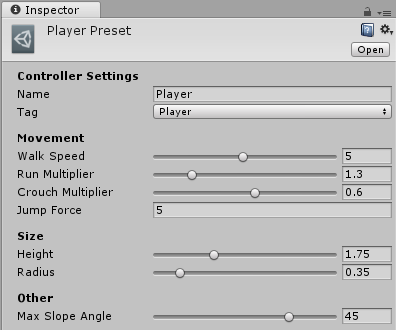
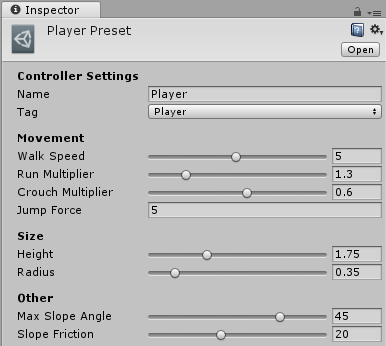
Updated images, example scene and comments

diff --git a/FPController/Assets/FPController/Script/Controller/FirstPersonController.cs b/FPController/Assets/FPController/Script/Controller/FirstPersonController.cs
@@ -74,12 +74,12 @@ namespace FPController
         private FirstPersonPreset m_settings;
 
         /// <summary>
-        /// Is charachter currently running.
+        /// Is the controller currently running.
         /// </summary>
         private bool m_running = false;
 
         /// <summary>
-        /// Is charachter currently crouching.
+        /// Is the controller currently crouching.
         /// </summary>
         private bool m_crouching = false;
 
@@ -212,7 +212,7 @@ namespace FPController
          */
 
         /// <summary>
-        /// Move Controllers Rigidbody component with given horizontal and vertical input.
+        /// Moves the rigidbody component with given horizontal and vertical input.
         /// </summary>
         /// <param name="_horizontal">Horizontal Input.</param>
         /// <param name="_vertical">Vertical Input.</param>
@@ -222,7 +222,7 @@ namespace FPController
         }
 
         /// <summary>
-        /// Rotate Charachter with given horizontal and vertical input.
+        /// Rotates the controller with given horizontal and vertical input.
         /// </summary>
         /// <param name="_horizontal">Horizontal Input.</param>
         /// <param name="_vertical">Vertical Input.</param>
@@ -232,7 +232,7 @@ namespace FPController
         }
 
         /// <summary>
-        /// Makes charachter crouch down if allowed.
+        /// Makes the controller crouch down if allowed.
         /// <see cref="CanCrouch"/>
         /// </summary>
         public void CrouchDown()
@@ -247,7 +247,7 @@ namespace FPController
         }
 
         /// <summary>
-        /// Makes chrachter stands up after crouching.
+        /// Makes the controller stands up after crouching.
         /// <see cref="CrouchDown"/>
         /// </summary>
         public void CrouchUp()
@@ -261,7 +261,7 @@ namespace FPController
         }
 
         /// <summary>
-        /// Makes charachter run if allowed.
+        /// Makes the conttroller run if allowed.
         /// <see cref="CanRun"/>
         /// </summary>
         public void StartRunning()
@@ -274,7 +274,7 @@ namespace FPController
         }
 
         /// <summary>
-        /// Makes charachter walk if running.
+        /// Makes the controller walk if running.
         /// <see cref="StartRunning"/>
         /// </summary>
         public void StopRunning()
@@ -287,7 +287,7 @@ namespace FPController
         }
 
         /// <summary>
-        /// Makes charachter jump if on ground.
+        /// Makes the controller jump if on the ground.
         /// <see cref="Grounded"/>
         /// <see cref="m_jumpForce"/>
         /// </summary>
@@ -327,7 +327,7 @@ namespace FPController
         }
 
         /// <summary>
-        /// Resets camera to the right local position.
+        /// Resets controllers camera to the right local position.
         /// <see cref="CameraOffset"/>
         /// </summary>
         private void SetCamera()
@@ -421,6 +421,10 @@ namespace FPController
                     MaxFriction(Settings.MaxFriction);
                     return;
                 }
+                else
+                {
+                    m_rigidbody.AddForce(Vector3.down * Physics.gravity.y, ForceMode.Force);
+                }
             }
             ZeroFriction();
         }
@@ -441,7 +445,7 @@ namespace FPController
         }
 
         /// <summary>
-        /// Rotates charachter with given input
+        /// Rotates the controller with given input
         /// </summary>
         /// <param name="_input">Input.</param>
         private void MouseMove(Vector2 _input)
@@ -466,7 +470,7 @@ namespace FPController
         }
 
         /// <summary>
-        /// Tries to stand up if requested and possible.
+        /// Checks if standing up is requested and is it possible.
         /// </summary>
         private void StandUp()
         {
@@ -564,7 +568,7 @@ namespace FPController
         }
 
         /// <summary>
-        /// Is the charachter currently standing on ground.
+        /// Is the controller currently standing on ground.
         /// </summary>
         private bool Grounded
         {
@@ -575,7 +579,7 @@ namespace FPController
         }
 
         /// <summary>
-        /// Returns surface angle below charachter.
+        /// Returns surface angle below controller.
         /// </summary>
         private float SurfaceAngle
         {
